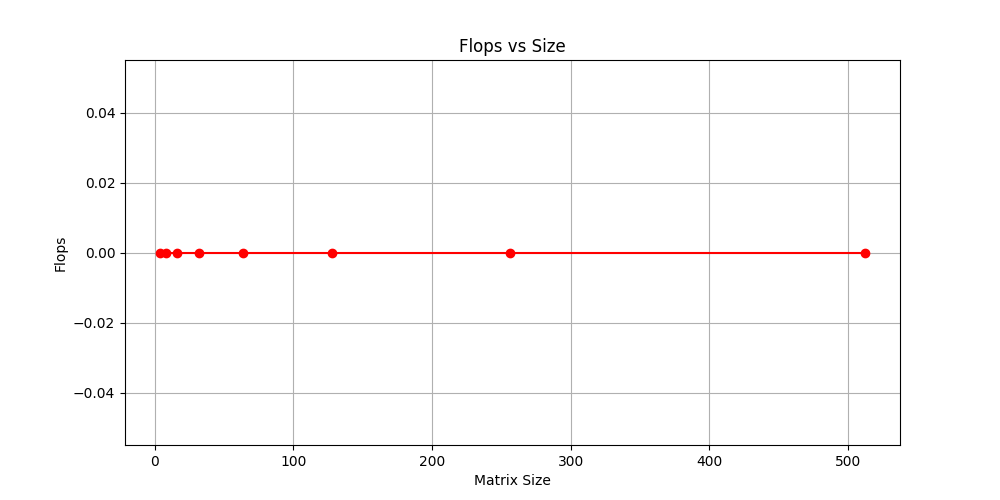
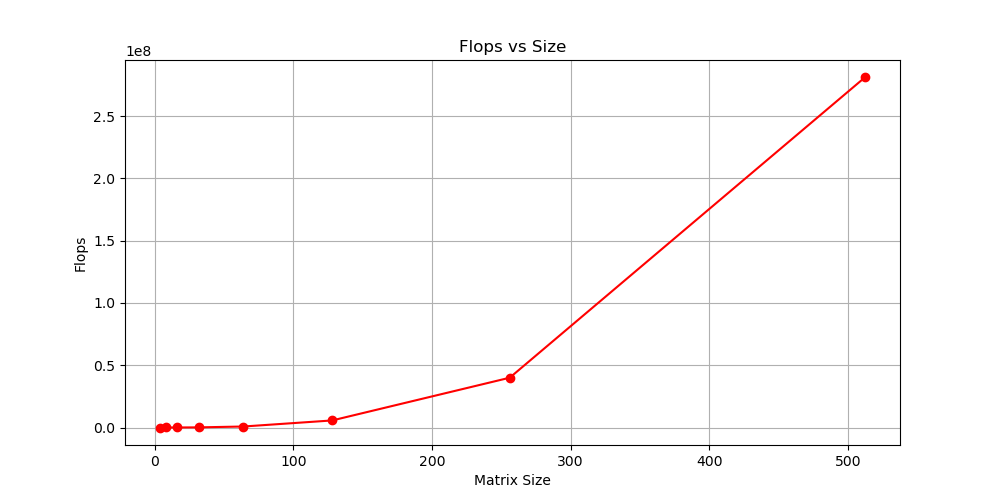
lab1 - final update

diff --git a/lab1/strassen.py b/lab1/strassen.py
@@ -44,22 +44,24 @@ class StrassenCalculationEngine:
         M6 = self.multiplyMatrices(A21 - A11, B11 + B12)
         M7 = self.multiplyMatrices(A12 - A22, B21 + B22)
 
+        self.__flops += A11.shape[0]**2 * 10       # ten (+) and (-) operations on every element of a square matrices
 
         return M1, M2, M3, M4, M5, M6, M7
 
     def __recursiveMultiplyMatrices(self, A: np.ndarray, B: np.ndarray):
 
         if A.shape == (1, 1):
-            #self.__flops += 1 
+            self.__flops += 1 
             return A * B
         
         M1, M2, M3, M4, M5, M6, M7 = self.__defineAuxiliaryMatrices(A, B)
         
-        C1 = M1 + M4 - M5 + M7
-        C2 = M3 + M5
-        C3 = M2 + M4
+        C1 = M1 + M4 - M5 + M7    
+        C2 = M3 + M5              
+        C3 = M2 + M4              
         C4 = M1 - M2 + M3 + M6
 
+        self.__flops += M1.shape[0]**2 *8          # eight (+) and (-) operations on every element of a square matrices
 
         return np.vstack((np.hstack((C1, C2)), np.hstack((C3, C4))))
     
@@ -72,11 +74,9 @@ class StrassenCalculationEngine:
             raise ValueError("Number of columns in matrix A must be equal to the number of rows in matrix B.")
 
         
-        if A.shape != B.shape:
-            rows, cols = A.shape
-            if rows != cols or not (rows & (rows - 1) == 0):
-                A = self.__adjustMatrixSize(A.copy())
-                B = self.__adjustMatrixSize(B.copy())
+        if A.shape != B.shape or not (original_rows_A & (original_rows_A - 1) == 0):     # check if the matrices are 2^n x 2^n size to avoid additional calculations
+            A = self.__adjustMatrixSize(A.copy())
+            B = self.__adjustMatrixSize(B.copy())
 
         C = self.__recursiveMultiplyMatrices(A, B)
 

diff --git a/lab1/binet.py b/lab1/binet.py
@@ -58,9 +58,7 @@ class BinetCalculationEngine():
         if original_cols_A != original_rows_B:
             raise ValueError("Number of columns in matrix A must be equal to the number of rows in matrix B.")
 
-        if A.shape != B.shape:
-            rows, cols = A.shape
-            if rows != cols or not (rows & (rows - 1) == 0):
+        if A.shape != B.shape or not (original_rows_A & (original_rows_A - 1) == 0):     # check if the matrices are 2^n x 2^n size to avoid additional calculations
                 A = self.__adjustMatrixSize(A.copy())
                 B = self.__adjustMatrixSize(B.copy())
 
